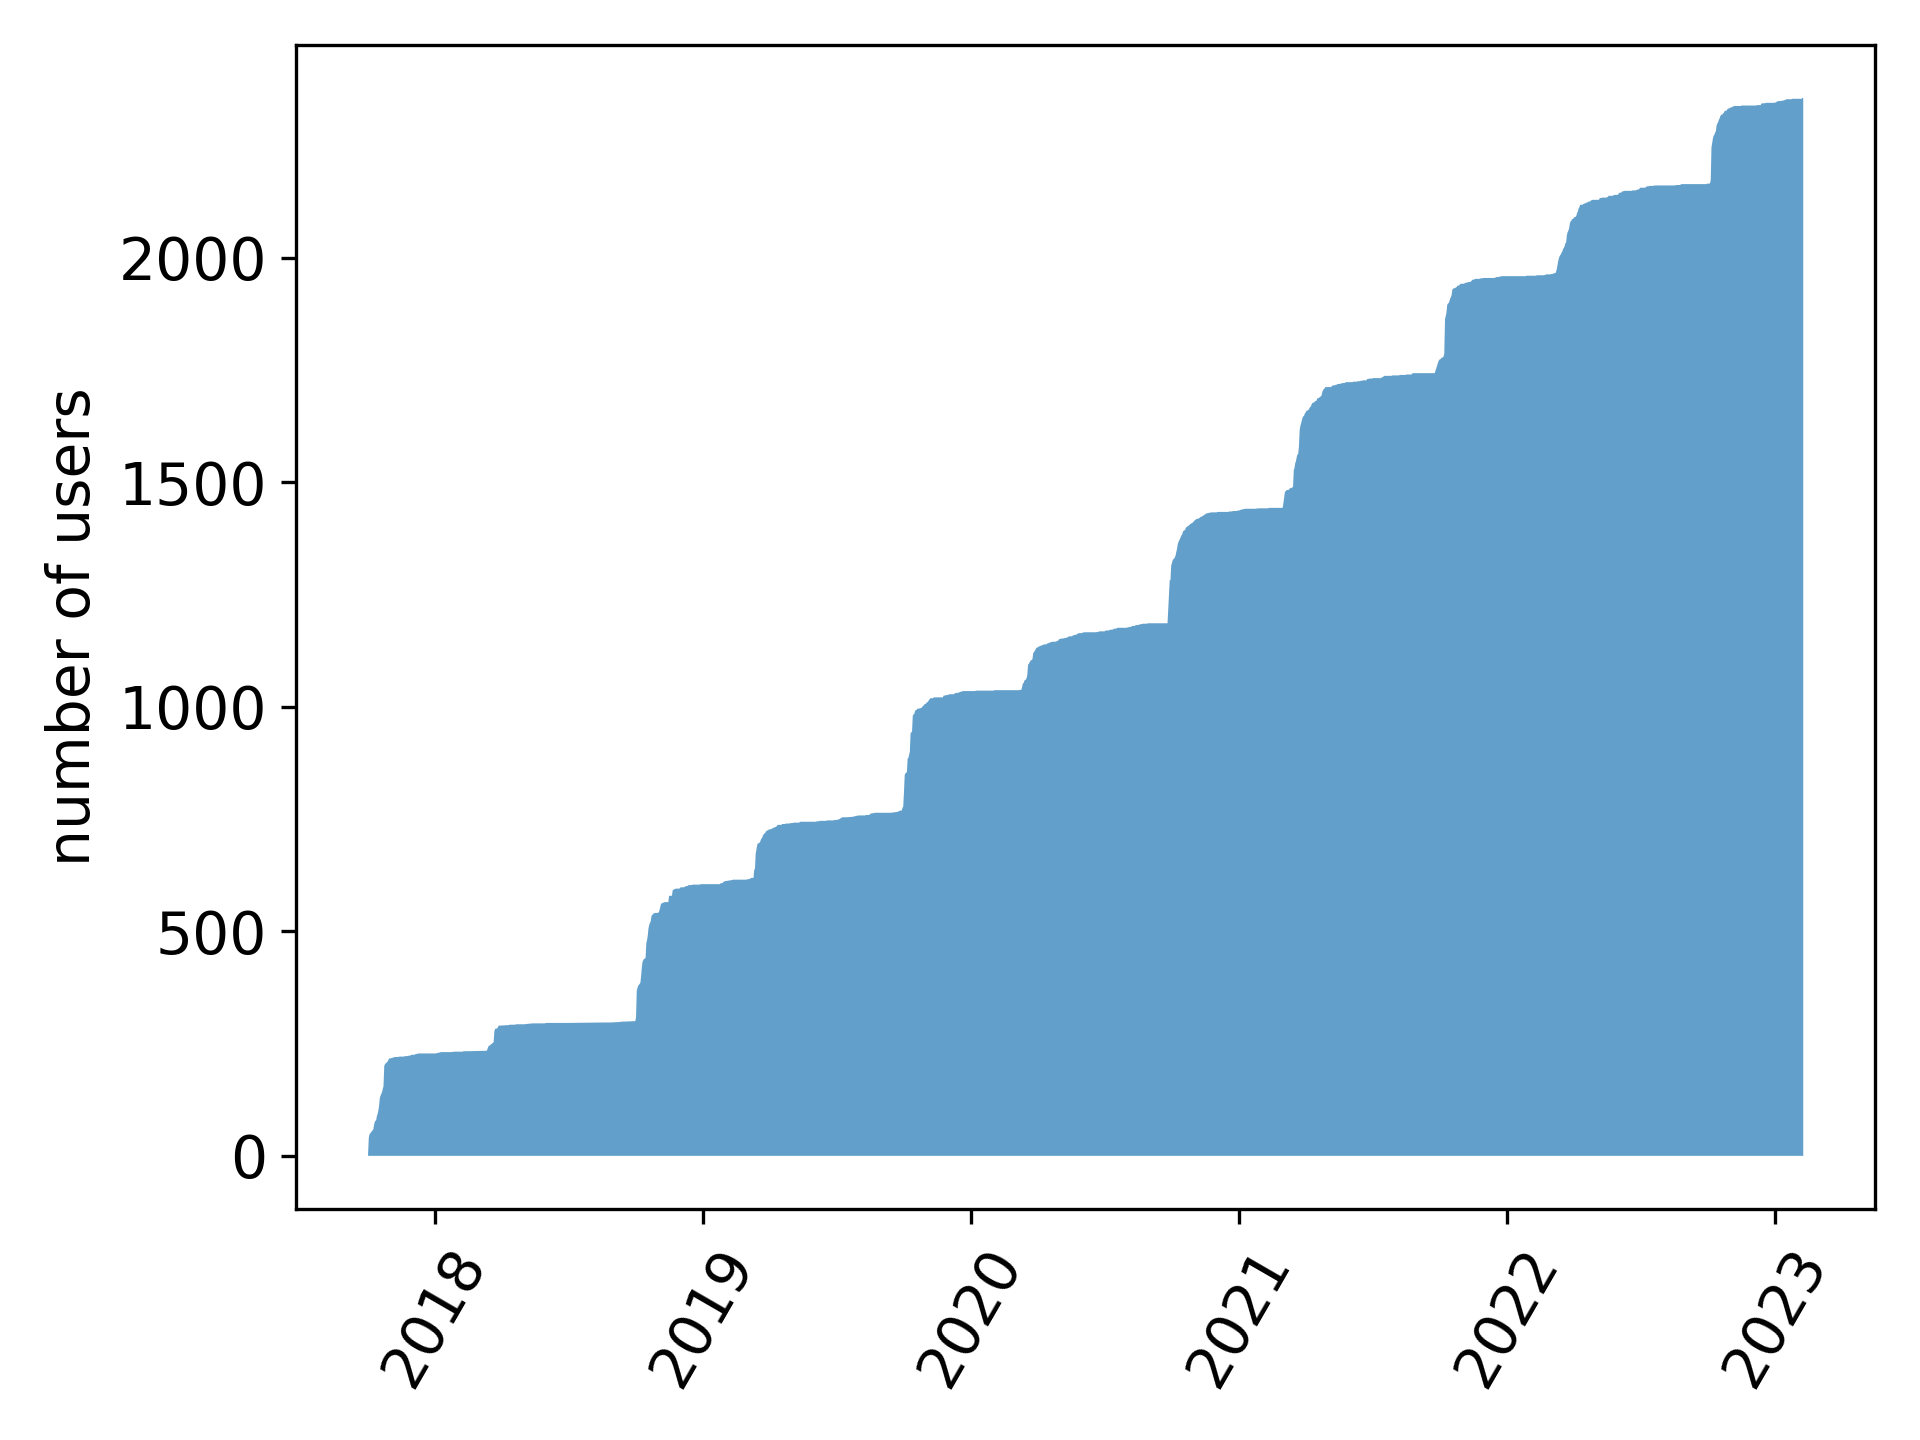
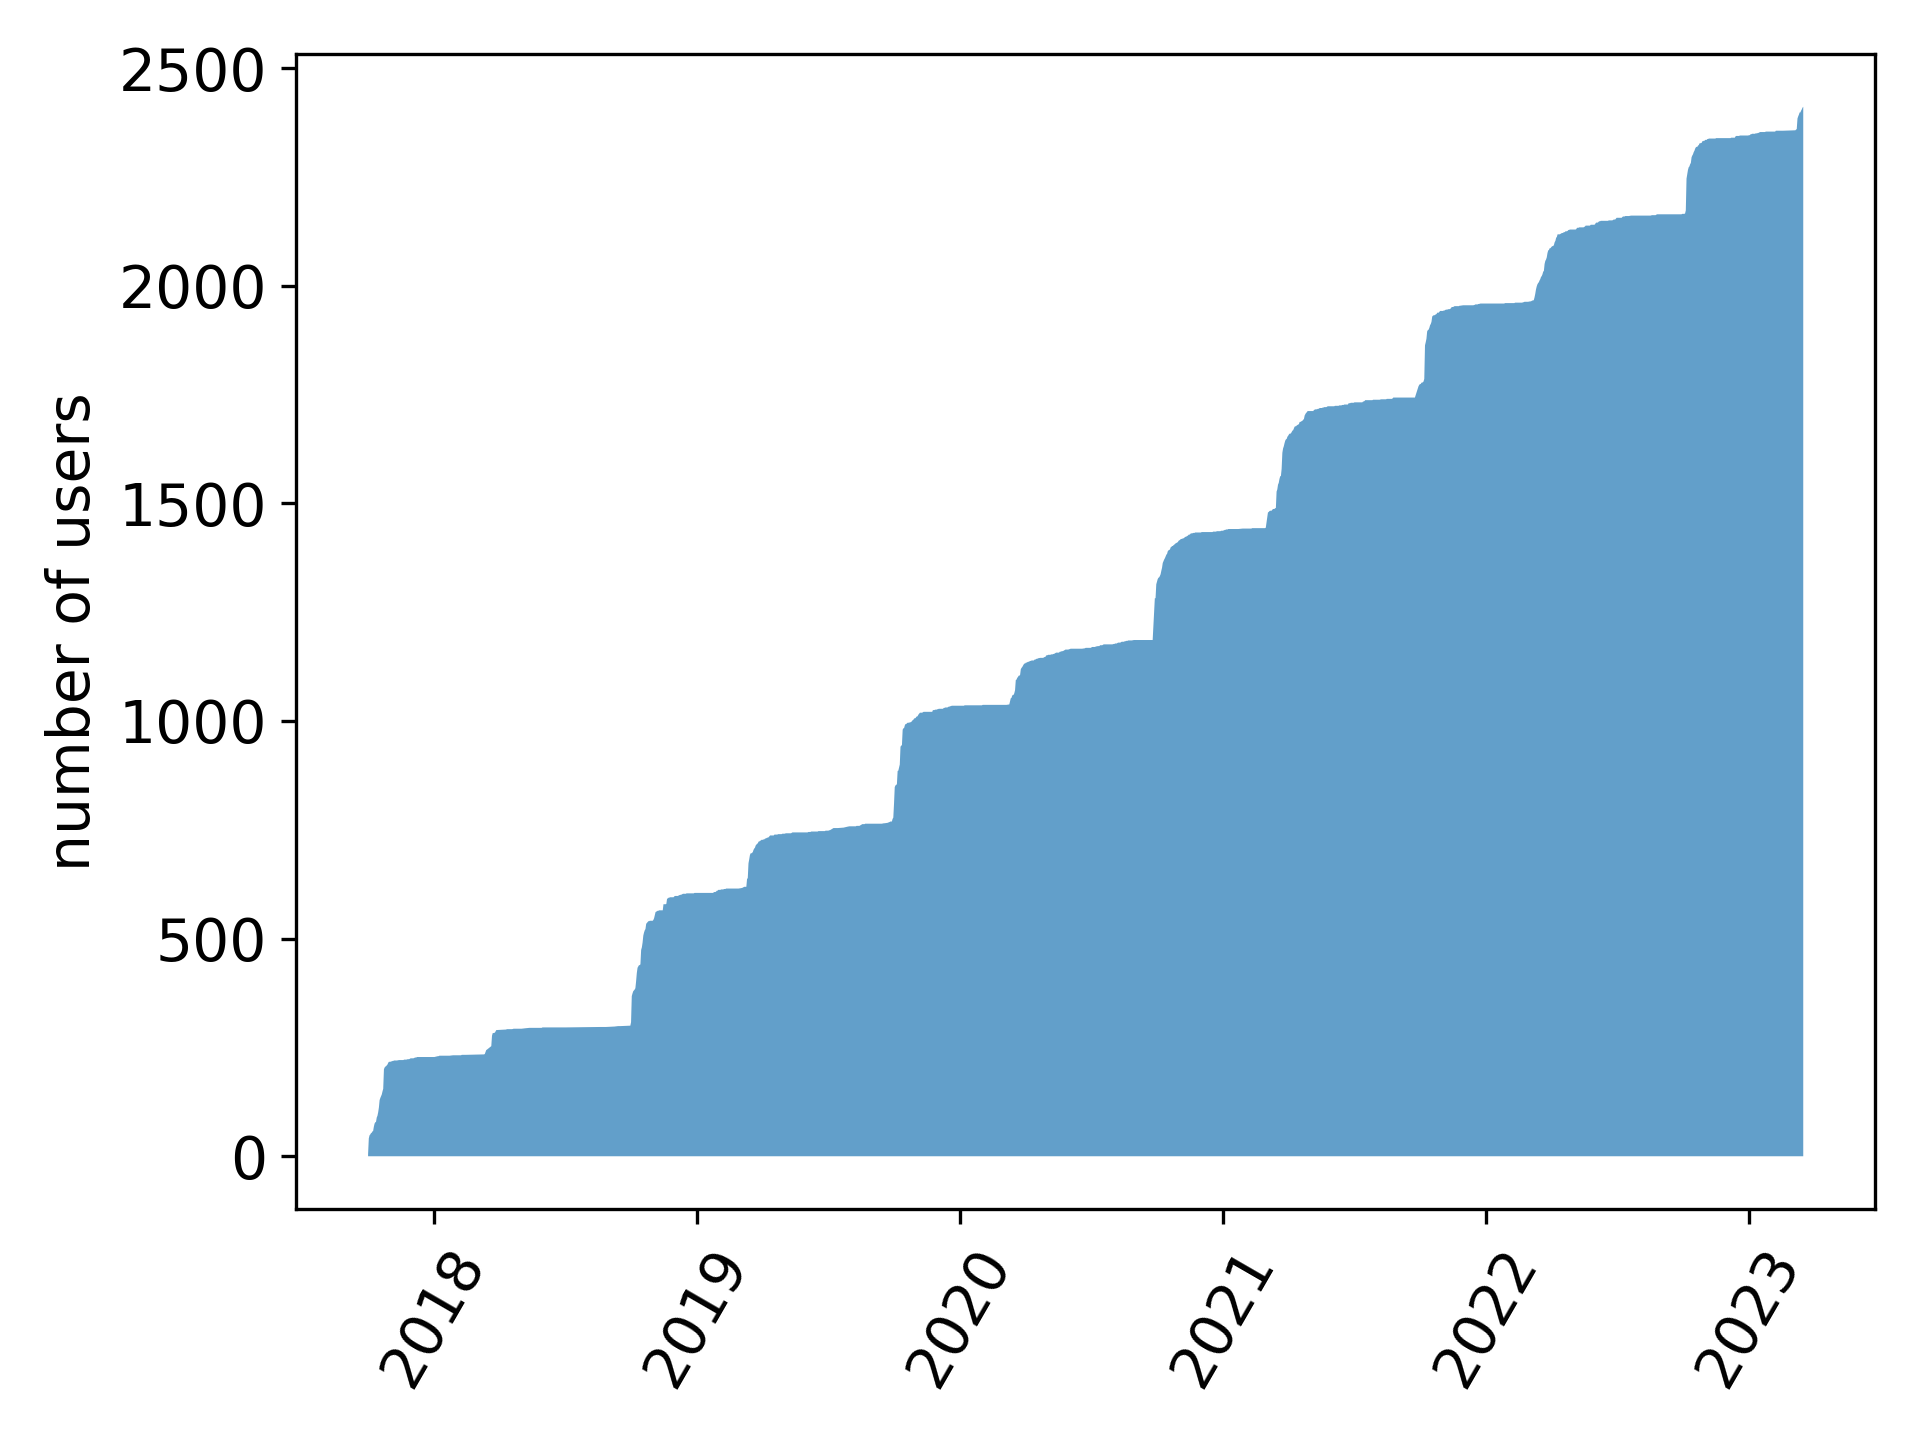
Update March 17, 2023

diff --git a/README.md b/README.md
@@ -6,7 +6,7 @@
 
 
 ### Analysis performed
-Currently, SpicePyBot has been used by 2356 users for a total of 34439 analysis. Fig. 1 shows the percentages of the different analysis (`.op` = operating point, `.tran` = transient, `.ac` = alternatig current).
+Currently, SpicePyBot has been used by 2411 users for a total of 34749 analysis. Fig. 1 shows the percentages of the different analysis (`.op` = operating point, `.tran` = transient, `.ac` = alternating current).
 
 <p align="center">
 <img src="./img/fig4_Analysis_percentage.png" width="450">
